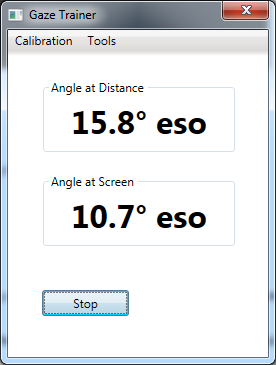
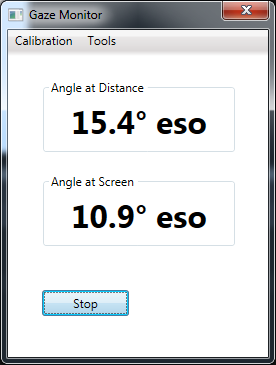
Main Window title changed

diff --git a/MainWindow.xaml b/MainWindow.xaml
@@ -1,7 +1,7 @@
 <Window x:Class="GazeMonitor.MainWindow"
         xmlns="http://schemas.microsoft.com/winfx/2006/xaml/presentation"
         xmlns:x="http://schemas.microsoft.com/winfx/2006/xaml"
-        Title="Gaze Trainer" Height="365" Width="276" ResizeMode="NoResize"
+        Title="Gaze Monitor" Height="365" Width="276" ResizeMode="NoResize"
         ContentRendered="Window_ContentRendered"
         Closing="Window_Closing"
         >
